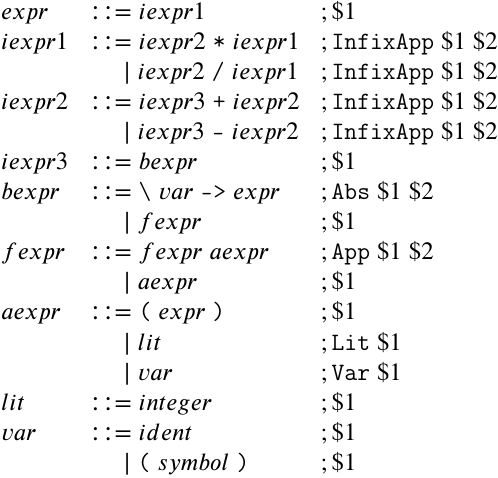
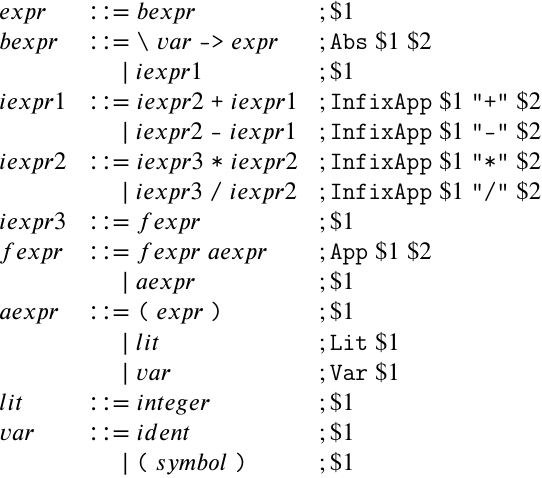
Fix lazy debug problem 01
Thanks, nobsun

diff --git a/content/articles/2020/03/haskell-lazy-debug-problem/Problem01.html b/content/articles/2020/03/haskell-lazy-debug-problem/Problem01.html
@@ -570,29 +570,29 @@ body .il { color: #666666 } /* Literal.Number.Integer.Long */
 <a name="line-154"></a><span class="kr">type</span> <span class="kt">TokenParser</span> <span class="ow">=</span> <span class="kt">Parser</span> <span class="kt">Token</span>
 <a name="line-155"></a>
 <a name="line-156"></a><span class="nf">exprP</span> <span class="ow">::</span> <span class="kt">TokenParser</span> <span class="kt">Expr</span>
-<a name="line-157"></a><span class="nf">exprP</span> <span class="ow">=</span> <span class="n">infixExpr1P</span> <span class="o">&lt;*</span> <span class="n">eofP</span>
+<a name="line-157"></a><span class="nf">exprP</span> <span class="ow">=</span> <span class="n">blockExprP</span> <span class="o">&lt;*</span> <span class="n">eofP</span>
 <a name="line-158"></a>
-<a name="line-159"></a><span class="nf">infixExpr1P</span> <span class="ow">::</span> <span class="kt">TokenParser</span> <span class="kt">Expr</span>
-<a name="line-160"></a><span class="nf">infixExpr1P</span>
-<a name="line-161"></a>  <span class="ow">=</span>   <span class="p">(</span><span class="kt">InfixApp</span> <span class="o">&lt;$&gt;</span> <span class="n">infixExpr2P</span> <span class="o">&lt;*&gt;</span> <span class="n">varopTokenP</span> <span class="s">&quot;*&quot;</span> <span class="o">&lt;*&gt;</span> <span class="n">infixExpr1P</span><span class="p">)</span>
-<a name="line-162"></a>  <span class="o">&lt;|&gt;</span> <span class="p">(</span><span class="kt">InfixApp</span> <span class="o">&lt;$&gt;</span> <span class="n">infixExpr2P</span> <span class="o">&lt;*&gt;</span> <span class="n">varopTokenP</span> <span class="s">&quot;/&quot;</span> <span class="o">&lt;*&gt;</span> <span class="n">infixExpr1P</span><span class="p">)</span>
-<a name="line-163"></a>  <span class="o">&lt;|&gt;</span> <span class="n">infixExpr2P</span>
-<a name="line-164"></a>
-<a name="line-165"></a><span class="nf">infixExpr2P</span> <span class="ow">::</span> <span class="kt">TokenParser</span> <span class="kt">Expr</span>
-<a name="line-166"></a><span class="nf">infixExpr2P</span>
-<a name="line-167"></a>  <span class="ow">=</span>   <span class="p">(</span><span class="kt">InfixApp</span> <span class="o">&lt;$&gt;</span> <span class="n">infixExpr3P</span> <span class="o">&lt;*&gt;</span> <span class="n">varopTokenP</span> <span class="s">&quot;+&quot;</span> <span class="o">&lt;*&gt;</span> <span class="n">infixExpr2P</span><span class="p">)</span>
-<a name="line-168"></a>  <span class="o">&lt;|&gt;</span> <span class="p">(</span><span class="kt">InfixApp</span> <span class="o">&lt;$&gt;</span> <span class="n">infixExpr3P</span> <span class="o">&lt;*&gt;</span> <span class="n">varopTokenP</span> <span class="s">&quot;-&quot;</span> <span class="o">&lt;*&gt;</span> <span class="n">infixExpr2P</span><span class="p">)</span>
-<a name="line-169"></a>  <span class="o">&lt;|&gt;</span> <span class="n">infixExpr3P</span>
-<a name="line-170"></a>
-<a name="line-171"></a><span class="nf">infixExpr3P</span> <span class="ow">::</span> <span class="kt">TokenParser</span> <span class="kt">Expr</span>
-<a name="line-172"></a><span class="nf">infixExpr3P</span> <span class="ow">=</span> <span class="n">blockExprP</span>
-<a name="line-173"></a>
-<a name="line-174"></a><span class="nf">blockExprP</span> <span class="ow">::</span> <span class="kt">TokenParser</span> <span class="kt">Expr</span>
-<a name="line-175"></a><span class="nf">blockExprP</span>
-<a name="line-176"></a>    <span class="ow">=</span>   <span class="n">absP</span>
-<a name="line-177"></a>    <span class="o">&lt;|&gt;</span> <span class="n">fexprP</span>
-<a name="line-178"></a>  <span class="kr">where</span>
-<a name="line-179"></a>    <span class="n">absP</span> <span class="ow">=</span> <span class="kt">Abs</span> <span class="o">&lt;$&gt;</span> <span class="p">(</span><span class="n">tokenP</span> <span class="kt">TBackSlash</span> <span class="o">*&gt;</span> <span class="n">varP</span><span class="p">)</span> <span class="o">&lt;*&gt;</span> <span class="p">(</span><span class="n">tokenP</span> <span class="kt">TArrow</span> <span class="o">*&gt;</span> <span class="n">exprP</span><span class="p">)</span>
+<a name="line-159"></a><span class="nf">blockExprP</span> <span class="ow">::</span> <span class="kt">TokenParser</span> <span class="kt">Expr</span>
+<a name="line-160"></a><span class="nf">blockExprP</span>
+<a name="line-161"></a>    <span class="ow">=</span>   <span class="n">absP</span>
+<a name="line-162"></a>    <span class="o">&lt;|&gt;</span> <span class="n">infixExpr1P</span>
+<a name="line-163"></a>  <span class="kr">where</span>
+<a name="line-164"></a>    <span class="n">absP</span> <span class="ow">=</span> <span class="kt">Abs</span> <span class="o">&lt;$&gt;</span> <span class="p">(</span><span class="n">tokenP</span> <span class="kt">TBackSlash</span> <span class="o">*&gt;</span> <span class="n">varP</span><span class="p">)</span> <span class="o">&lt;*&gt;</span> <span class="p">(</span><span class="n">tokenP</span> <span class="kt">TArrow</span> <span class="o">*&gt;</span> <span class="n">exprP</span><span class="p">)</span>
+<a name="line-165"></a>
+<a name="line-166"></a><span class="nf">infixExpr1P</span> <span class="ow">::</span> <span class="kt">TokenParser</span> <span class="kt">Expr</span>
+<a name="line-167"></a><span class="nf">infixExpr1P</span>
+<a name="line-168"></a>  <span class="ow">=</span>   <span class="p">(</span><span class="kt">InfixApp</span> <span class="o">&lt;$&gt;</span> <span class="n">infixExpr2P</span> <span class="o">&lt;*&gt;</span> <span class="n">varopTokenP</span> <span class="s">&quot;+&quot;</span> <span class="o">&lt;*&gt;</span> <span class="n">infixExpr1P</span><span class="p">)</span>
+<a name="line-169"></a>  <span class="o">&lt;|&gt;</span> <span class="p">(</span><span class="kt">InfixApp</span> <span class="o">&lt;$&gt;</span> <span class="n">infixExpr2P</span> <span class="o">&lt;*&gt;</span> <span class="n">varopTokenP</span> <span class="s">&quot;-&quot;</span> <span class="o">&lt;*&gt;</span> <span class="n">infixExpr1P</span><span class="p">)</span>
+<a name="line-170"></a>  <span class="o">&lt;|&gt;</span> <span class="n">infixExpr2P</span>
+<a name="line-171"></a>
+<a name="line-172"></a><span class="nf">infixExpr2P</span> <span class="ow">::</span> <span class="kt">TokenParser</span> <span class="kt">Expr</span>
+<a name="line-173"></a><span class="nf">infixExpr2P</span>
+<a name="line-174"></a>  <span class="ow">=</span>   <span class="p">(</span><span class="kt">InfixApp</span> <span class="o">&lt;$&gt;</span> <span class="n">infixExpr3P</span> <span class="o">&lt;*&gt;</span> <span class="n">varopTokenP</span> <span class="s">&quot;*&quot;</span> <span class="o">&lt;*&gt;</span> <span class="n">infixExpr2P</span><span class="p">)</span>
+<a name="line-175"></a>  <span class="o">&lt;|&gt;</span> <span class="p">(</span><span class="kt">InfixApp</span> <span class="o">&lt;$&gt;</span> <span class="n">infixExpr3P</span> <span class="o">&lt;*&gt;</span> <span class="n">varopTokenP</span> <span class="s">&quot;/&quot;</span> <span class="o">&lt;*&gt;</span> <span class="n">infixExpr2P</span><span class="p">)</span>
+<a name="line-176"></a>  <span class="o">&lt;|&gt;</span> <span class="n">infixExpr3P</span>
+<a name="line-177"></a>
+<a name="line-178"></a><span class="nf">infixExpr3P</span> <span class="ow">::</span> <span class="kt">TokenParser</span> <span class="kt">Expr</span>
+<a name="line-179"></a><span class="nf">infixExpr3P</span> <span class="ow">=</span> <span class="n">fexprP</span>
 <a name="line-180"></a>
 <a name="line-181"></a><span class="nf">fexprP</span> <span class="ow">::</span> <span class="kt">TokenParser</span> <span class="kt">Expr</span>
 <a name="line-182"></a><span class="nf">fexprP</span>

diff --git a/content/articles/2020/03/haskell-lazy-debug-problem/simple-language.tex b/content/articles/2020/03/haskell-lazy-debug-problem/simple-language.tex
@@ -16,18 +16,18 @@
 \begin{align*}
   \begin{array}{lll}
   \mathit{expr}
-  &\BNFassign \mathit{iexpr1} &;\$1 \\
-  \mathit{iexpr1}
-  &\BNFassign \mathit{iexpr2}\;\tokenc{*}\;\mathit{iexpr1} &;\tokenc{InfixApp}\;\$1\;\$2 \\
-  &\BNFor \mathit{iexpr2}\;\tokenc{/}\;\mathit{iexpr1} &;\tokenc{InfixApp}\;\$1\;\$2 \\
-  \mathit{iexpr2}
-  &\BNFassign \mathit{iexpr3}\;\tokenc{+}\;\mathit{iexpr2} &;\tokenc{InfixApp}\;\$1\;\$2 \\
-  &\BNFor \mathit{iexpr3}\;\tokenc{-}\;\mathit{iexpr2} &;\tokenc{InfixApp}\;\$1\;\$2 \\
-  \mathit{iexpr3}
   &\BNFassign \mathit{bexpr} &;\$1 \\
   \mathit{bexpr}
   &\BNFassign \tokenc{\textbackslash}\;\mathit{var}\;\tokenc{->}\;\mathit{expr} &;\tokenc{Abs}\;\$1\;\$2 \\
-  &\BNFor \mathit{fexpr} &;\$1 \\
+  &\BNFor \mathit{iexpr1} &;\$1 \\
+  \mathit{iexpr1}
+  &\BNFassign \mathit{iexpr2}\;\tokenc{+}\;\mathit{iexpr1} &;\tokenc{InfixApp}\;\$1\;\tokenc{"+"}\;\$2 \\
+  &\BNFor \mathit{iexpr2}\;\tokenc{-}\;\mathit{iexpr1} &;\tokenc{InfixApp}\;\$1\;\tokenc{"-"}\;\$2 \\
+  \mathit{iexpr2}
+  &\BNFassign \mathit{iexpr3}\;\tokenc{*}\;\mathit{iexpr2} &;\tokenc{InfixApp}\;\$1\;\tokenc{"*"}\;\$2 \\
+  &\BNFor \mathit{iexpr3}\;\tokenc{/}\;\mathit{iexpr2} &;\tokenc{InfixApp}\;\$1\;\tokenc{"/"}\;\$2 \\
+  \mathit{iexpr3}
+  &\BNFassign \mathit{fexpr} &;\$1 \\
   \mathit{fexpr}
   &\BNFassign \mathit{fexpr}\;\mathit{aexpr} &;\tokenc{App}\;\$1\;\$2 \\
   &\BNFor \mathit{aexpr} &;\$1 \\
